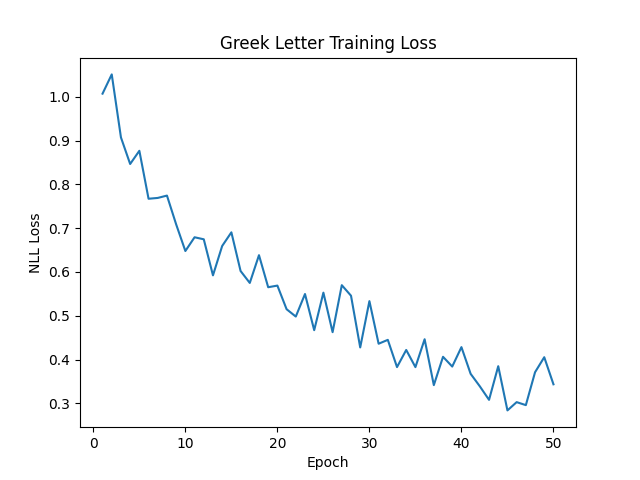
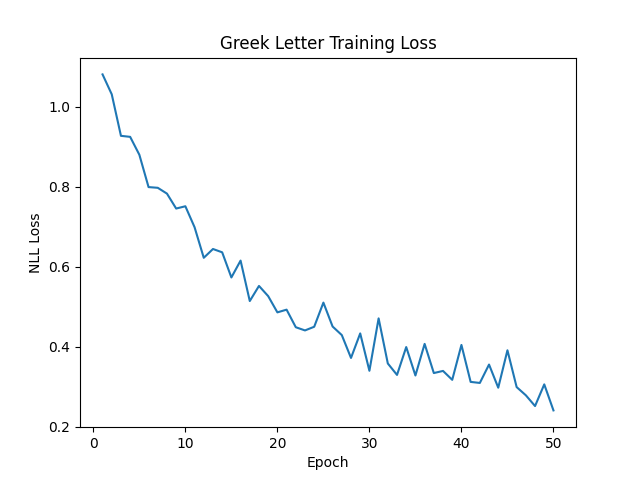
fix handwritten inverted problem

diff --git a/greek_letters.py b/greek_letters.py
@@ -43,8 +43,8 @@ def train_greek(model, optimizer, greek_train, epoch, losses):
 # Predict a single image
 def predict_image(img_path, model, labels):
     transform = torchvision.transforms.Compose([
+        torchvision.transforms.Grayscale(),
         torchvision.transforms.ToTensor(),
-        GreekTransform(),
         torchvision.transforms.Normalize((0.1307,), (0.3081,))
     ])
 
@@ -83,8 +83,8 @@ def main():
         torchvision.datasets.ImageFolder(
             training_set_path,
             transform=torchvision.transforms.Compose([
-                torchvision.transforms.ToTensor(),
                 GreekTransform(),
+                torchvision.transforms.ToTensor(),
                 torchvision.transforms.Normalize((0.1307,), (0.3081,))
             ])
         ),

diff --git a/test_model.py b/test_model.py
@@ -49,16 +49,13 @@ def test_digits_with_predictions(model, test_loader):
     plt.show()
 
 
-def test_handwritten_digits(model, image_dir='./data/test/'):
+def test_handwritten_digits(model, image_dir='./data/hand_write_digts/'):
     """This function loads handwritten digit images from a directory,
     preprocesses them to match MNIST format, runs them through the network,
     and displays the results."""
 
     transform = torchvision.transforms.Compose([
-        torchvision.transforms.Grayscale(),
-        torchvision.transforms.Resize((28, 28)),
         torchvision.transforms.ToTensor(),
-        torchvision.transforms.Lambda(lambda x: 1.0 - x),  # invert: black bg, white digit
         torchvision.transforms.Normalize((0.1307,), (0.3081,))
     ])
 
